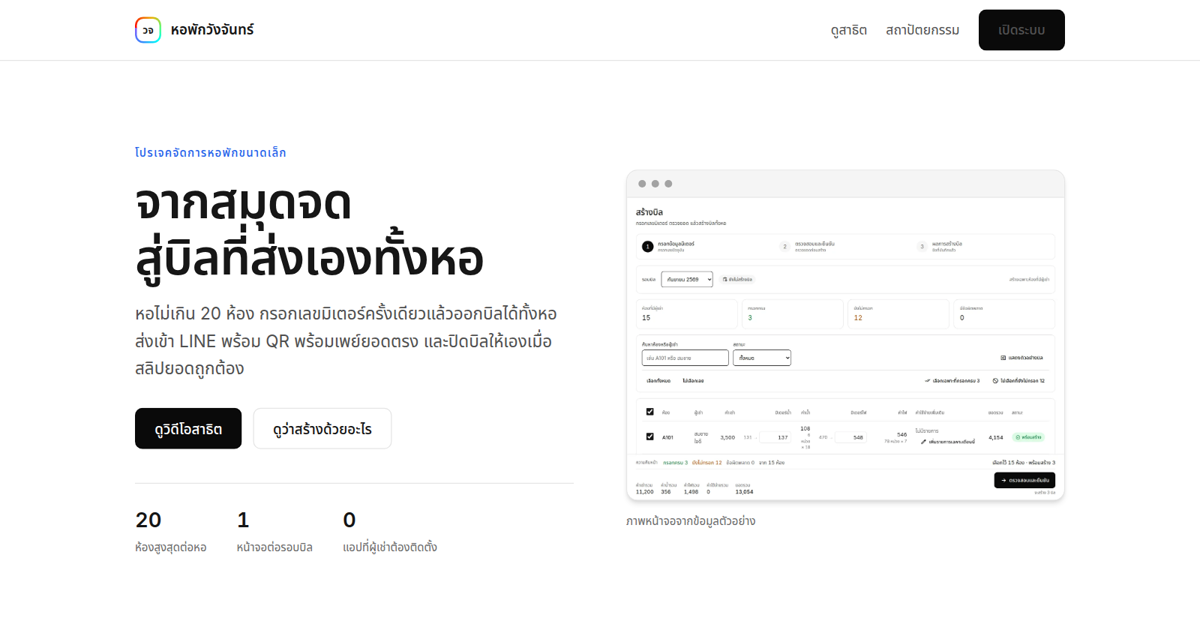
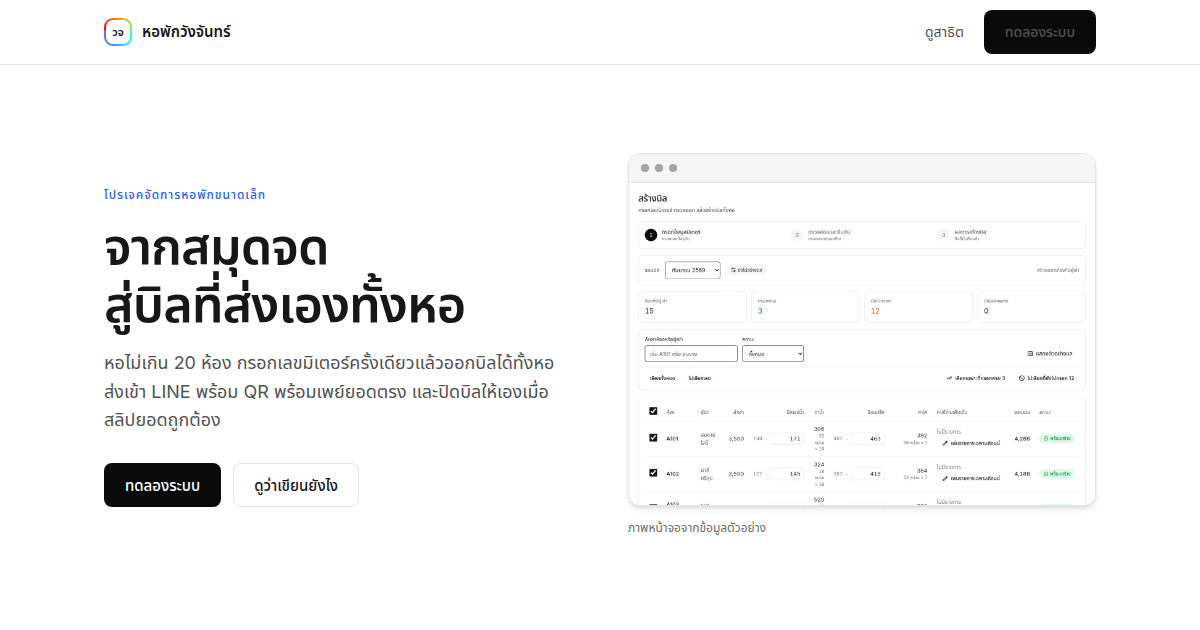
test(welcome): recapture the share card and lock the page contract
The old OG image showed the number band and a เปิดระบบ button, both of
which the page no longer has.

- New og.png captured from the finished page at 1200x630, 85 KB
  against the 300 KB ceiling.
- welcome.test.ts now covers every item in the spec's Testing
  Decisions: anonymous access with an empty database, our own markup,
  live anchors, the banned phrase, the demo target, the sample-data
  labels and the demo-mode closure list, no video element, all four
  images with intrinsic sizes, section order, no exclamation marks,
  AA contrast, 44px buttons and reduced-motion.
- PII sweep over the page source, the four images, the share card and
  the demo slip: none of the real room numbers or tenant names appear.

Ticket 11 of docs/specs/0003-welcome-case-study.md.

diff --git a/test/welcome.test.ts b/test/welcome.test.ts
@@ -1,4 +1,4 @@
-import { SELF } from "cloudflare:test";
+import { SELF, env } from "cloudflare:test";
 import { describe, expect, it } from "vitest";
 import { contrastRatio, hexToken, ruleDeclarations, styleBlock } from "./html-style";
 
@@ -194,6 +194,40 @@ describe("GET /welcome", () => {
 
     expect(html).not.toContain("mailto:");
     expect(html).not.toContain("github.com");
+  });
+
+  it("references exactly the four page images, each with its intrinsic size", async () => {
+    const html = await (await landing()).text();
+    const sources = Array.from(html.matchAll(/<img [^>]*src="\/(welcome-media\/[^"]+)"/g), (match) => match[1]);
+
+    expect(sources).toEqual([
+      "welcome-media/hero-bill-create.webp",
+      "welcome-media/bill-dashboard.webp",
+      "welcome-media/bill-line-qr.webp",
+      "welcome-media/payment-status.webp",
+    ]);
+
+    for (const tag of html.match(/<img [^>]*>/g) ?? []) {
+      expect(tag).toMatch(/width="\d+"/);
+      expect(tag).toMatch(/height="\d+"/);
+      expect(tag).toMatch(/alt="[^"]{10,}"/);
+    }
+  });
+
+  /**
+   * หน้าเสิร์ฟได้โดยไม่มีเซสชันและไม่พึ่งฐานข้อมูล — เทสต์ในไฟล์นี้ไม่สร้างผู้ใช้
+   * ห้อง หรือบิลเลย ทั้งไฟล์จึงพิสูจน์ข้อนี้อยู่แล้ว เทสต์นี้ล็อกเจตนานั้นไว้
+   */
+  it("serves the whole page with no session and an empty database", async () => {
+    const count = await env.DB.prepare(
+      "SELECT (SELECT COUNT(*) FROM rooms) + (SELECT COUNT(*) FROM tenants) AS n",
+    ).first<{ n: number }>();
+
+    expect(count?.n).toBe(0);
+
+    const html = await (await landing()).text();
+    expect(html).toContain("ทดลองระบบ");
+    expect(html).toContain("ข้อตัดสินใจที่กำหนดรูปร่างระบบ");
   });
 
   it("keeps the brand voice free of exclamation marks", async () => {
